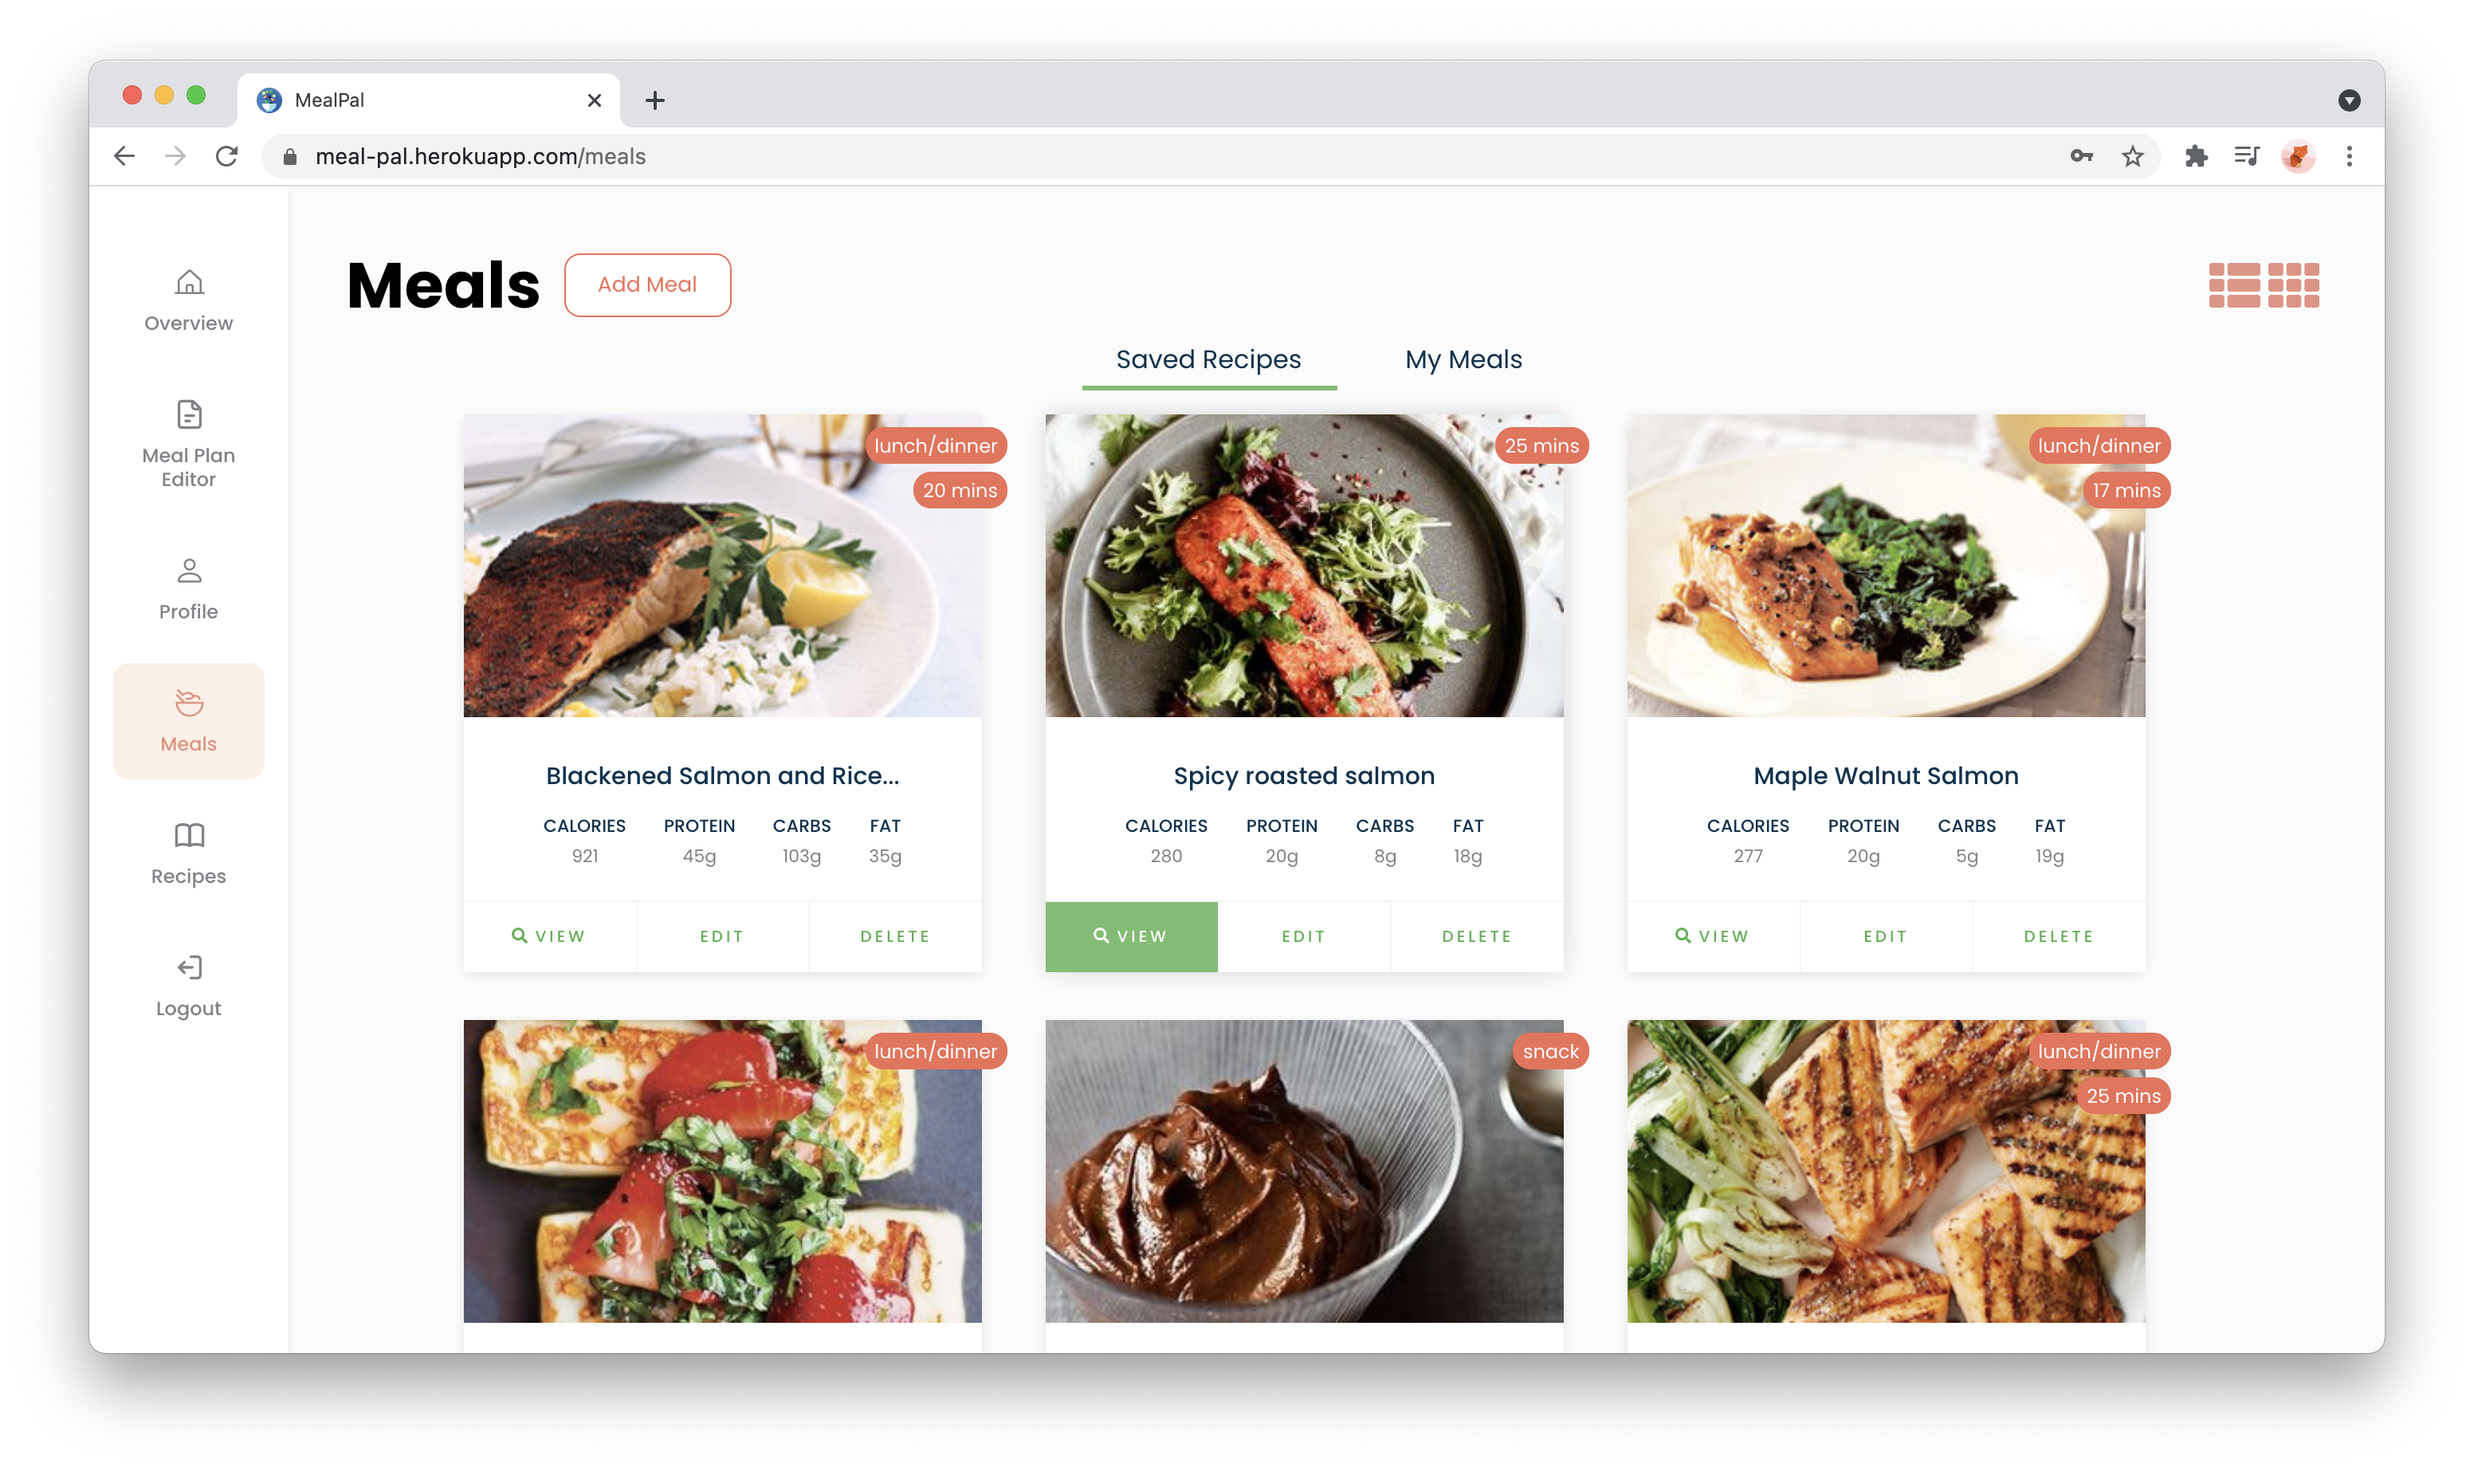
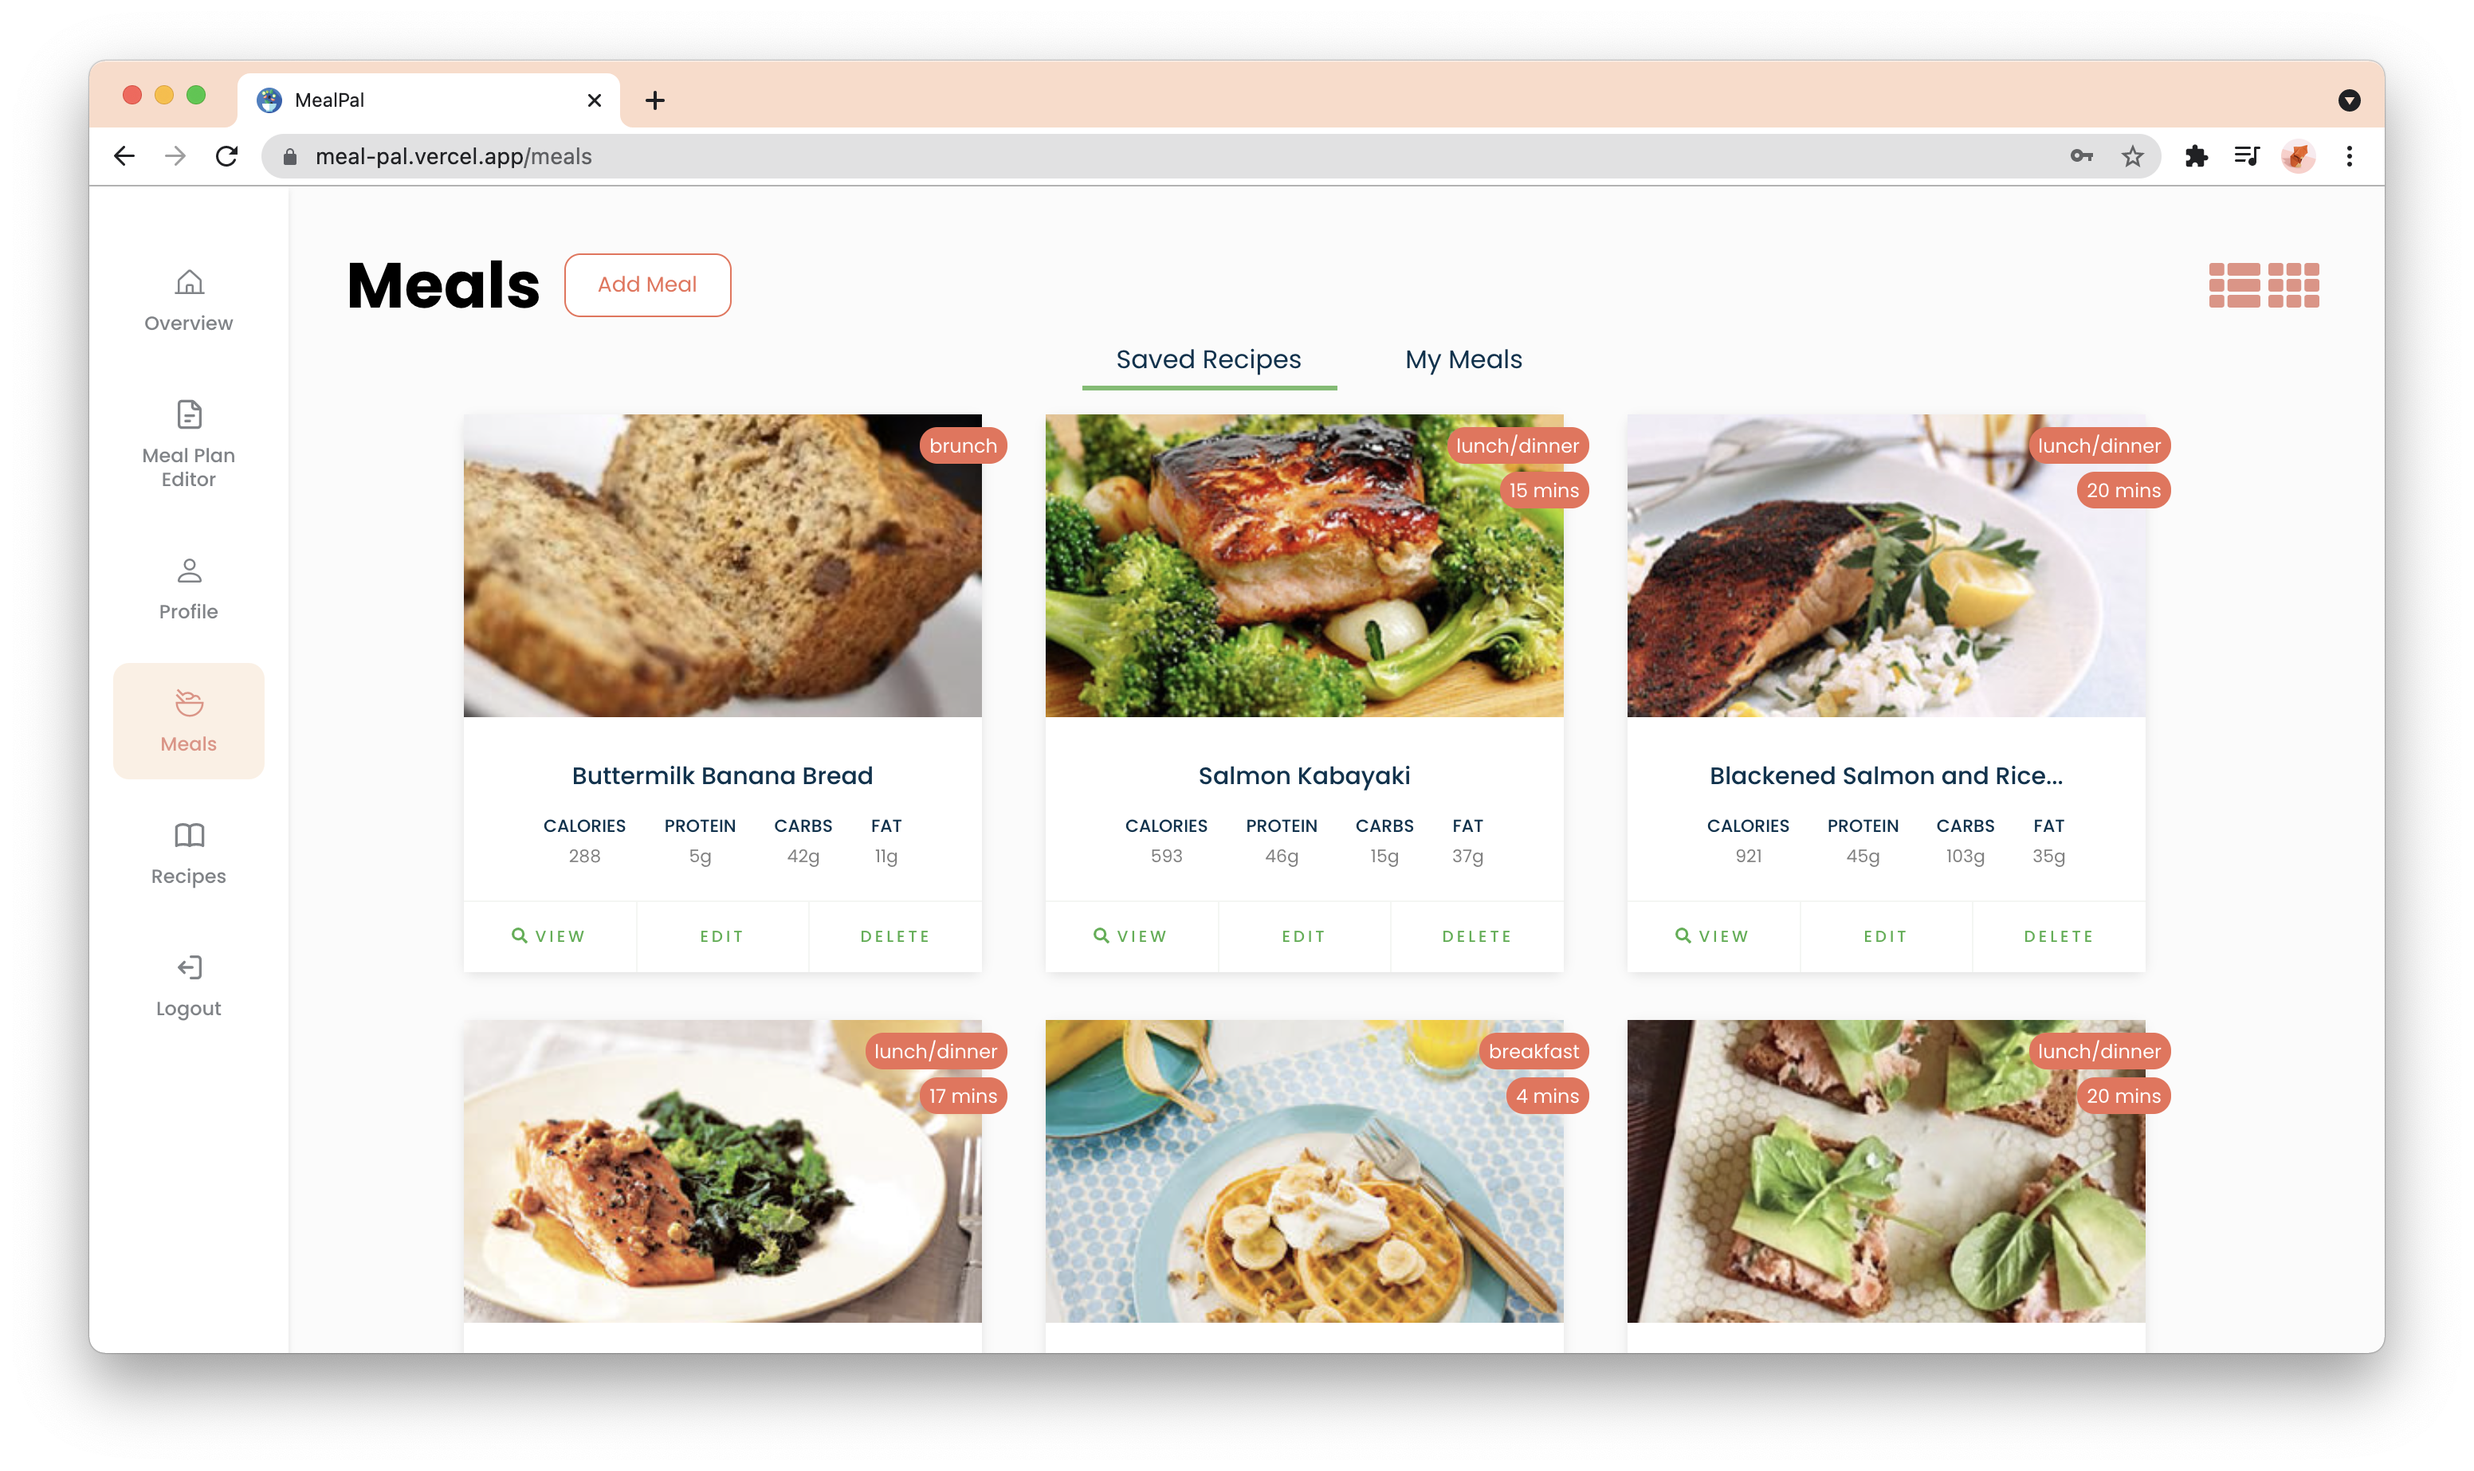
docs: update README

diff --git a/README.md b/README.md
@@ -12,16 +12,12 @@
 
 <p align="center">
   <h2 align="center">🚧 This project is still a work in progress 🚧</h2>
-  <p align="center">That means that some pages can be missing styles or functionality. Every new feature is created with a desktop-first approach and almost nothing is responsive yet and the mobile version looks horrible. Believe me, I know 🙈 Making this app responsive is the first thing on my to-do list after the main functionality is successfully done.</p>
 </p>
-
----
 
 ### ⚙ Installation
 
-- open project [MealPal](https://meal-pal.herokuapp.com/) directly in your browser (Google Chrome recommended)
+- open project [MealPal](https://meal-pal.vercel.app/) directly in your browser (Google Chrome recommended)
 - or clone project [meal-plan](https://github.com/domihustinova/meal-plan) from GitHub, create [Firebase project](https://firebase.google.com/) and replace `firebaseConfig` in the file `meal-plan/src/lib/firebase.prod.js` with your own keys and identifiers and run `yarn install && yarn start`
-- the app is using [meal-plan-backend](https://github.com/domihustinova/meal-plan-backend) for requests to Edamam API; you can clone this project, create your ID and API Key from [Recipe Search API](https://developer.edamam.com/edamam-docs-recipe-api) and replace them in the `meal-plan-backend/index.js` file (don't forget to replace the URL in the `meal-plan/src/constants/recipeApi.js` file)
 
 ```
 const firebaseConfig = {
@@ -35,10 +31,11 @@ const firebaseConfig = {
 };
 ```
 
+If you would like to check the app but you don't feel like creating an account, you can use these test credentials:
+
 ```
-export const API = {
-  URL: "https://meal-pal-backend.herokuapp.com/",
-};
+mealpaltest@gmail.com
+mealpal123
 ```
 
 ---
@@ -73,19 +70,3 @@ export const API = {
 - Google Sign-In
 - account settings
 - and many more...
-
----
-
-### 📌 Dependencies used in the project
-
-- `create-react-app`
-- `react-query`
-- `react-router-dom`
-- `firebase`
-- `formik`
-- `build-url`
-- `yup`
-- `styled-components`
-- `@material-ui`
-- `@fortawesome`
-- `@iconify-icons`
